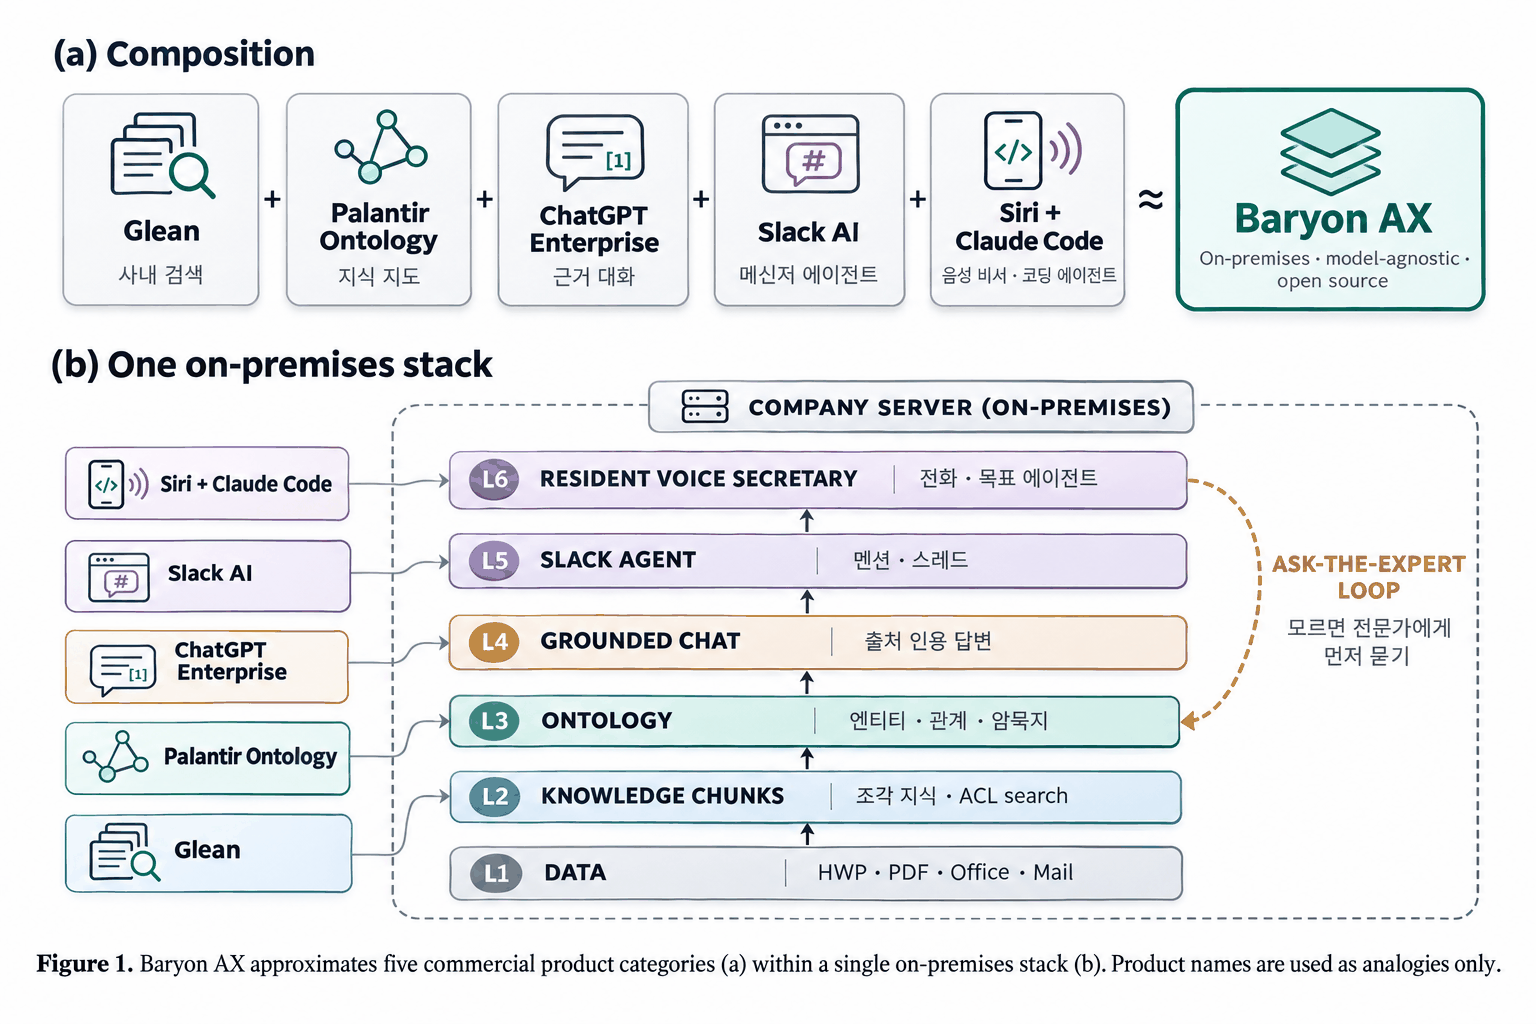
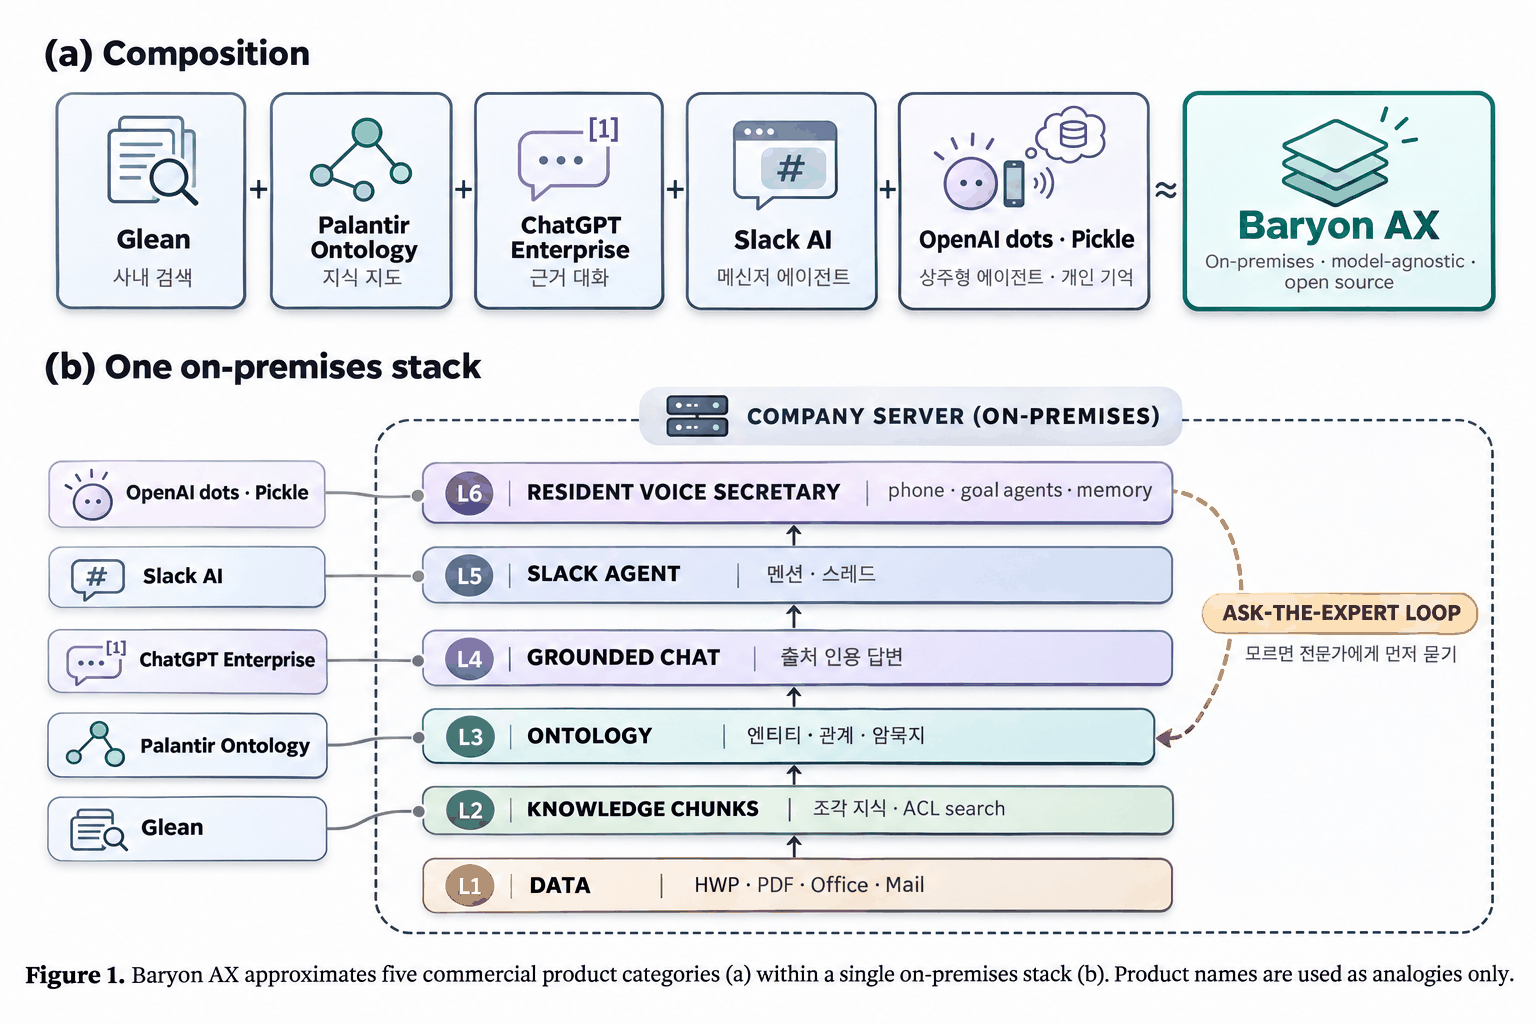
docs(readme): resident secretary analog is OpenAI dots · Pickle, not Siri · Claude Code (#100)

diff --git a/README.md b/README.md
@@ -37,9 +37,9 @@
 <a id="one-page"></a>
 ## 한 장으로 보기
 
-**Glean + Palantir 온톨로지 + ChatGPT Enterprise + Slack AI + Siri·Claude Code ≈ Baryon AX**. 다만 전부 사내 서버 안에서 돌고, 모델은 골라 쓰며, 답하지 못한 질문은 전문가에게 먼저 묻습니다.
+**Glean + Palantir 온톨로지 + ChatGPT Enterprise + Slack AI + OpenAI dots·Pickle ≈ Baryon AX**. 다만 전부 사내 서버 안에서 돌고, 모델은 골라 쓰며, 답하지 못한 질문은 전문가에게 먼저 묻습니다.
 
-<p align="center"><img src="docs/images/baryon-ax-figure1-ko.png" width="920" alt="그림 1. (a) 구성: Glean(사내 검색) + Palantir 온톨로지(지식 지도) + ChatGPT Enterprise(근거 대화) + Slack AI(메신저 에이전트) + Siri + Claude Code(음성 비서·코딩 에이전트) ≈ Baryon AX(사내 설치·모델 선택·소스 공개). (b) 하나의 사내 스택: 회사 서버 안에서 데이터 → 조각 지식 → 온톨로지 → 근거 대화 → 슬랙 에이전트 → 상주형 음성 비서. 모르는 질문은 전문가에게 먼저 묻고, 답은 온톨로지와 지식으로 돌아간다."></p>
+<p align="center"><img src="docs/images/baryon-ax-figure1-ko.png" width="920" alt="그림 1. (a) 구성: Glean(사내 검색) + Palantir 온톨로지(지식 지도) + ChatGPT Enterprise(근거 대화) + Slack AI(메신저 에이전트) + OpenAI dots · Pickle(상주형 에이전트·개인 기억) ≈ Baryon AX(사내 설치·모델 선택·소스 공개). (b) 하나의 사내 스택: 회사 서버 안에서 데이터 → 조각 지식 → 온톨로지 → 근거 대화 → 슬랙 에이전트 → 상주형 음성 비서. 모르는 질문은 전문가에게 먼저 묻고, 답은 온톨로지와 지식으로 돌아간다."></p>
 
 **그림 읽는 법**
 
@@ -50,7 +50,7 @@
 <details>
 <summary>단계별 세로 그림 보기</summary>
 
-<p align="center"><img src="docs/images/baryon-ax-ladder.svg" width="900" alt="데이터 → 조각 지식 → 온톨로지 → 근거 대화 → 슬랙 에이전트 → 상주형 비서. 각 단계 옆에 비슷한 상용 제품: Google Drive·SharePoint, Glean, Palantir 온톨로지, ChatGPT Enterprise, Slack AI, Siri + Claude Code. 답하지 못한 질문은 전문가를 거쳐 온톨로지와 지식으로 돌아간다."></p>
+<p align="center"><img src="docs/images/baryon-ax-ladder.svg" width="900" alt="데이터 → 조각 지식 → 온톨로지 → 근거 대화 → 슬랙 에이전트 → 상주형 비서. 각 단계 옆에 비슷한 상용 제품: Google Drive·SharePoint, Glean, Palantir 온톨로지, ChatGPT Enterprise, Slack AI, OpenAI dots · Pickle. 답하지 못한 질문은 전문가를 거쳐 온톨로지와 지식으로 돌아간다."></p>
 
 </details>
 
@@ -61,7 +61,7 @@
 | 3. 온톨로지 | 사람·업무·용어의 관계, 문서에 없는 암묵지를 전문가 답으로 채움 | Palantir 온톨로지 |
 | 4. 근거 대화 | 출처·인용을 단 답, 근거 없으면 지어내지 않음 | ChatGPT Enterprise |
 | 5. 슬랙 에이전트 | 멘션하면 출처와 함께 답하고, 모르면 담당자에게 먼저 질문 | Slack AI |
-| 6. 상주형 비서 | 전화로 요약·메일·일정, 코딩·조사는 목표 에이전트가 병렬로 | Siri + Claude Code |
+| 6. 상주형 비서 | 전화로 요약·메일·일정, 나를 기억하고, 코딩·조사는 목표 에이전트가 병렬로 | OpenAI dots · Pickle |
 
 <sub>제품명은 이해를 돕기 위한 비유이며 각 회사의 상표입니다. Baryon AX는 이 회사들과 관계가 없습니다.</sub>
 
@@ -891,9 +891,9 @@ API_BASE=http://127.0.0.1:8000 REQUIRE_FULL=1 python3 scripts/smoke_full_stack.p
 - **Voice secretary**: dictation, interruptible live conversation, and a resident secretary you can phone, by SIP or from the **바리온 비서** Android app. It shows up as a normal call, so car Bluetooth works. The secretary summarizes mail, calendar, to-dos and PRs, and acts only after a spoken "yes". It hands long work to **goal agents** that run in parallel on their own sandboxed git branches and report back by voice. Speech-to-text and text-to-speech stay on-premises.
 - **Governance**: OIDC with delegated identity for bots and MCP gateways, audit events in PostgreSQL/JSONL, Langfuse traces, and a security sweep that blocks P0/P1 findings on every PR.
 
-<p align="center"><img src="docs/images/baryon-ax-figure1-en.png" width="920" alt="Figure 1. (a) Composition: Glean + Palantir Ontology + ChatGPT Enterprise + Slack AI + Siri + Claude Code ≈ Baryon AX. (b) One on-premises stack: data, knowledge chunks, ontology, grounded chat, Slack agent and resident voice secretary on the company server, with an ask-the-expert loop back to the ontology."></p>
+<p align="center"><img src="docs/images/baryon-ax-figure1-en.png" width="920" alt="Figure 1. (a) Composition: Glean + Palantir Ontology + ChatGPT Enterprise + Slack AI + OpenAI dots · Pickle ≈ Baryon AX. (b) One on-premises stack: data, knowledge chunks, ontology, grounded chat, Slack agent and resident voice secretary on the company server, with an ask-the-expert loop back to the ontology."></p>
 
-In one picture: roughly Glean + Palantir's ontology + ChatGPT Enterprise + Slack AI + Siri and Claude Code, all running on your own servers.
+In one picture: roughly Glean + Palantir's ontology + ChatGPT Enterprise + Slack AI + OpenAI dots and Pickle, all running on your own servers.
 
 Start with one line (Docker only, no GPU or API key): see [Quick start](#quick-start). The English website is at [baryon-ax.baryon.ai/en](https://baryon-ax.baryon.ai/en/).
 
